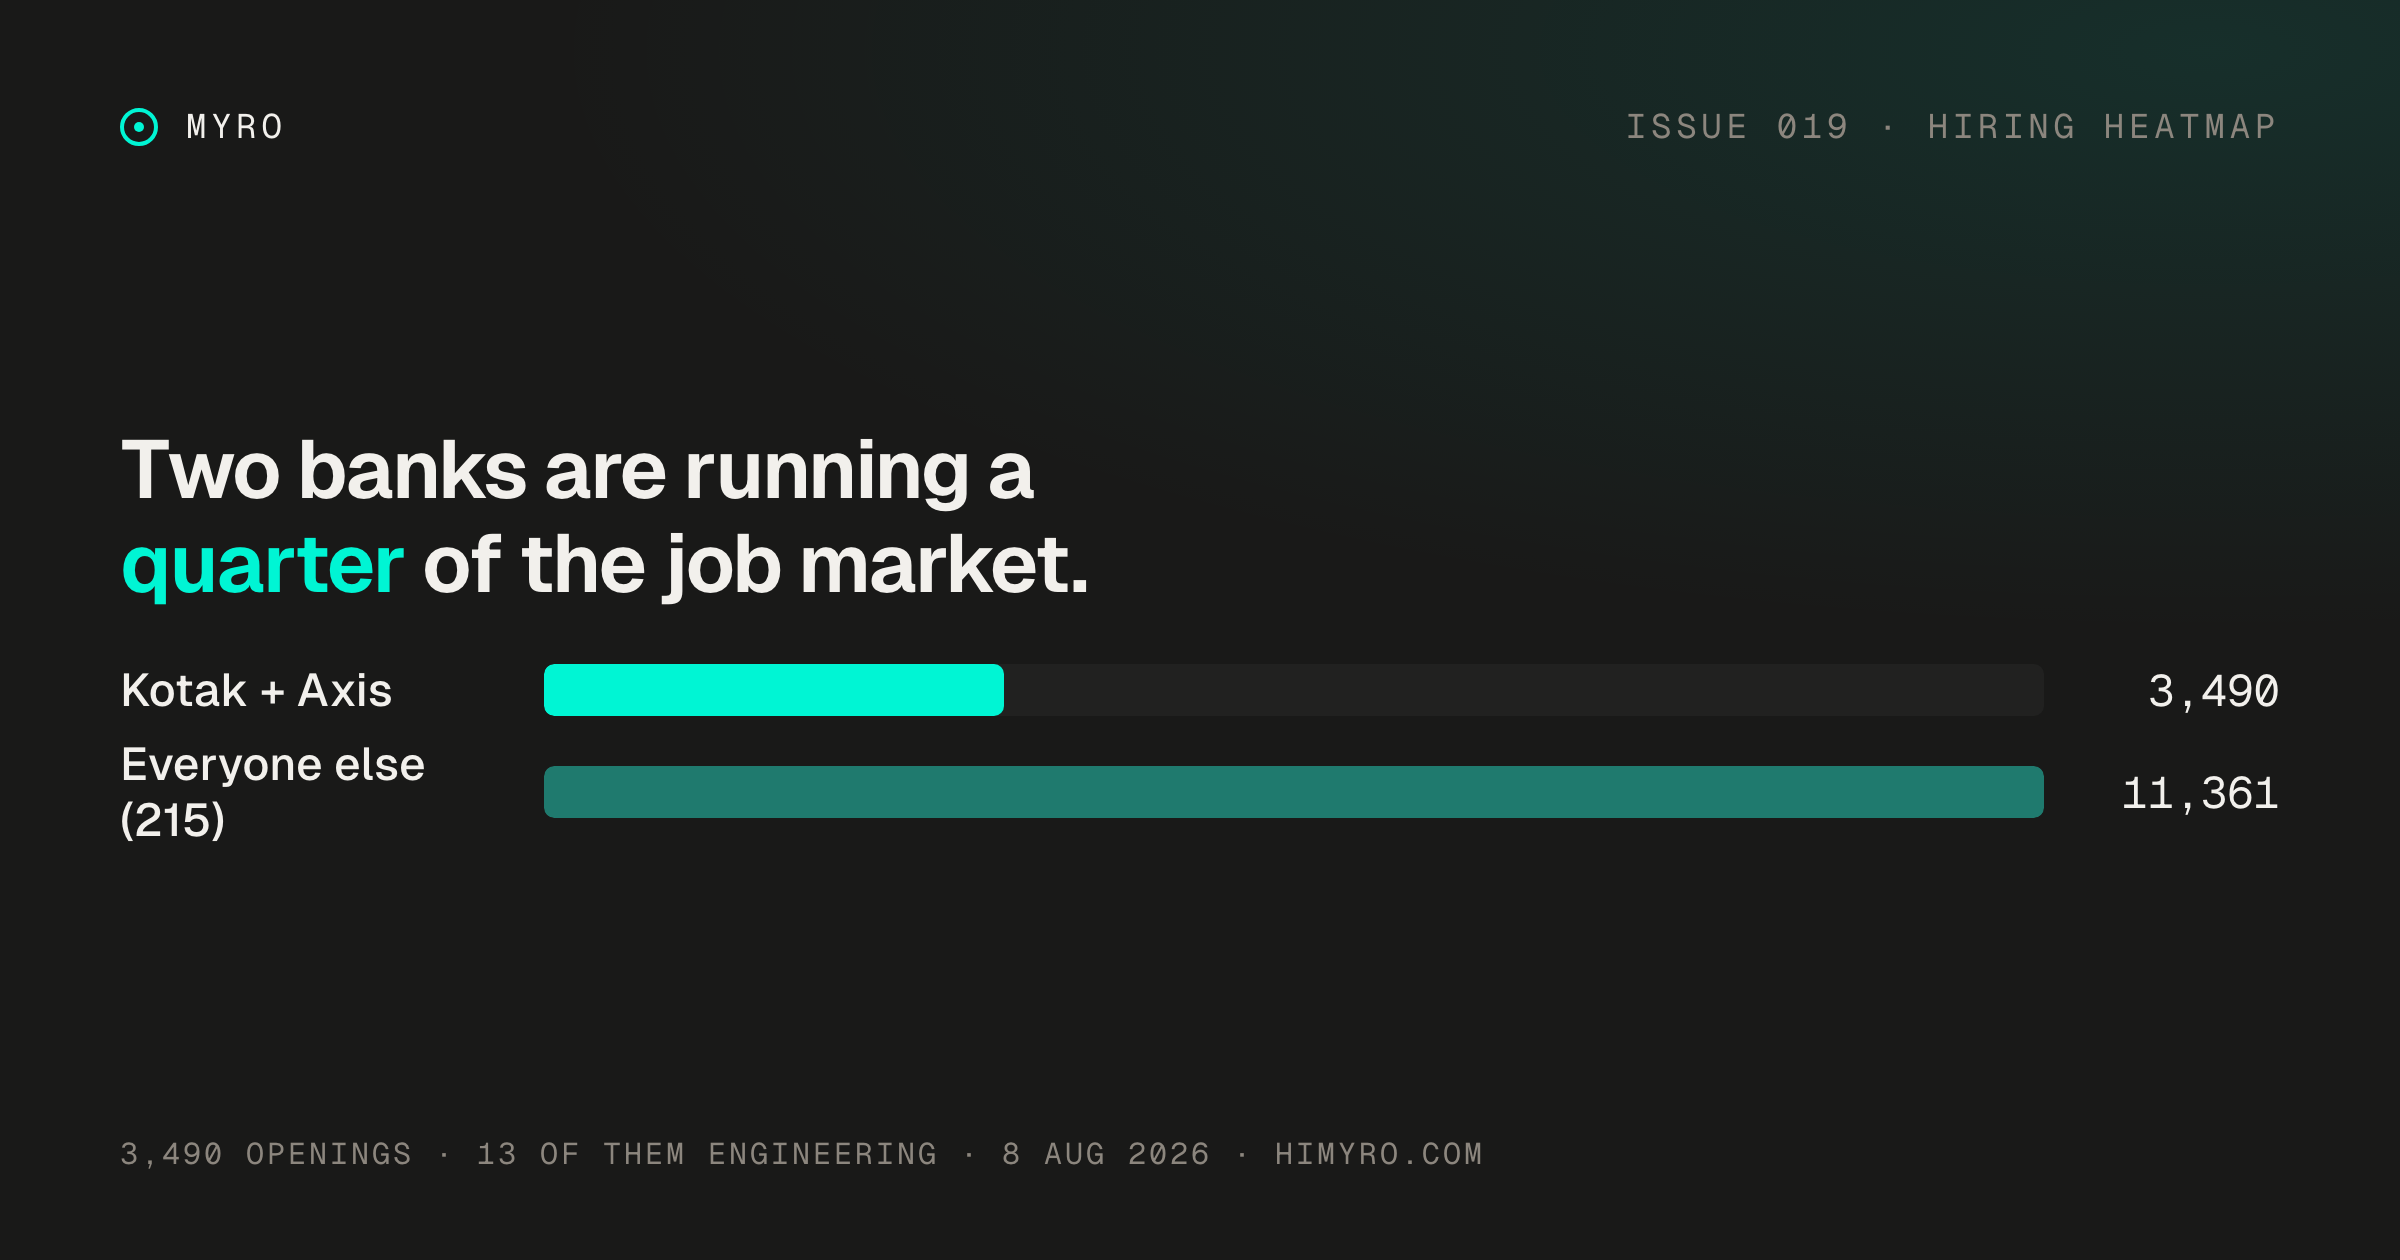
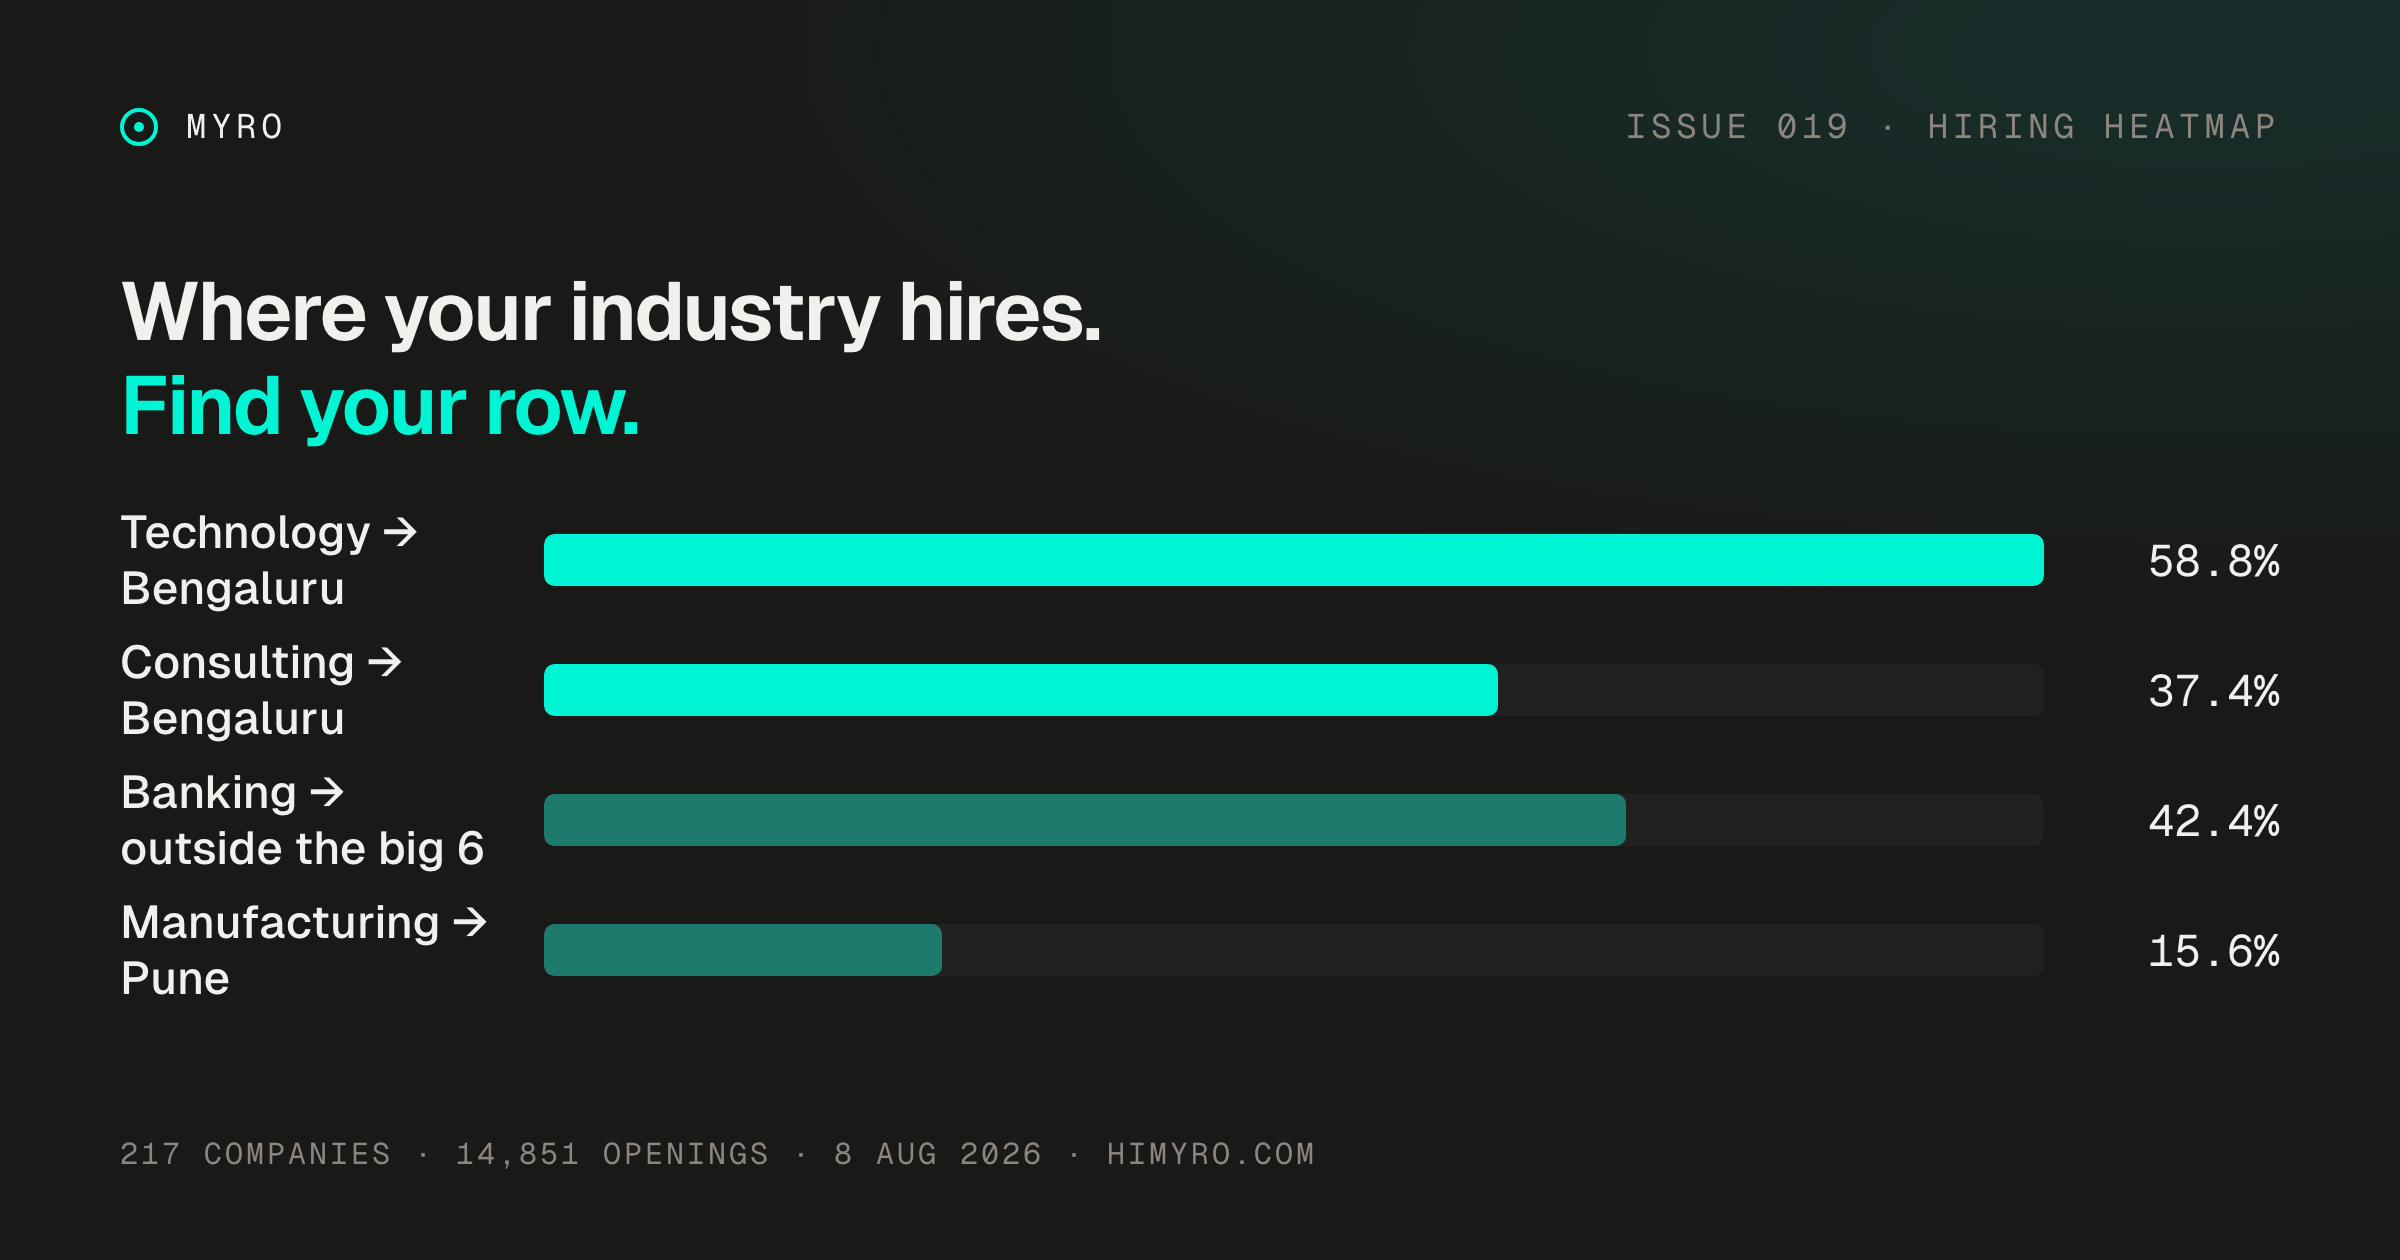
content(newsletter): replace issue 19 with the industry-by-city map
Drops the bank-concentration issue and rebuilds 19 around the question
people actually face. Almost nobody switches industry, so the useful cut is
not what is hiring but where your own industry hires.

The matrix is the piece: each row is one industry's openings split across
metros. Technology is 58.8% Bengaluru and 20.0% Hyderabad, so four in five
tech jobs sit in two cities and Mumbai holds 49. BFSI inverts it — Mumbai is
its largest metro at 16.5% and 42.4% sits outside the six big metros, 2,107
jobs against technology's entire national 1,701.

"Finance means Mumbai" did not survive the check and the issue says so.
There is no Mumbai-heavy finance sub-sector to lean on: industry inside BFSI
is only BFSI (4,858) and Fintech (115), and Fintech is 51.3% Bengaluru.

industry_group verified as a per-company attribute (zero companies carry two
values), so no model output is behind the rows. Metros rolled up: NCR
combines Gurugram/Noida/Delhi, Thane counts with Mumbai.

Adds a matrix slide type to the carousel generator.

diff --git a/scripts/build-newsletter-carousel.py b/scripts/build-newsletter-carousel.py
@@ -99,6 +99,14 @@ td.hi { color:var(--mint); } td.lo { color:var(--muted); }
 .card .d { font-size:33px; line-height:1.38; color:var(--fg); font-weight:400; }
 .cta { display:inline-block; background:var(--mint); color:#04241D; font-size:40px;
   font-weight:620; padding:30px 52px; border-radius:999px; letter-spacing:-.01em; }
+.mtx td, .mtx th { padding:17px 8px; font-size:27px; border-bottom:1px solid var(--border); }
+.mtx th.mx, .mtx td.mx { text-align:center; font-family:'GeistMono',monospace;
+  font-variant-numeric:tabular-nums; }
+.mtx th.mx { font-size:20px; letter-spacing:.06em; color:var(--muted); text-transform:uppercase; }
+.mtx td.mxl, .mtx th.mxl { text-align:left; font-size:28px; font-weight:520; padding-right:16px; }
+.mtx td.mx { color:var(--muted); }
+.mtx td.mx.warm { color:var(--fg); background:hsl(172 100%% 48%% / .10); }
+.mtx td.mx.hot { color:#04241D; background:var(--mint); font-weight:660; }
 .prose { font-size:46px; line-height:1.32; font-weight:440; letter-spacing:-.014em;
   color:var(--fg); }
 .prose b, .prose strong { font-weight:660; color:var(--mint); }
@@ -151,6 +159,17 @@ def slide_body(s):
     if k == "prose":
         lead = (f'<div class="lead">{s["lead"]}</div>' if s.get("lead") else "")
         return (f'{kicker}{lead}<div class="prose">{s["text"]}</div>')
+    if k == "matrix":
+        cols = "".join(f'<th class="mx">{html.escape(c)}</th>' for c in s["cols"])
+        rows = ""
+        for label, cells in s["rows"]:
+            tds = ""
+            for v, hot in cells:
+                cls = "mx hot" if hot == 2 else ("mx warm" if hot == 1 else "mx")
+                tds += f'<td class="{cls}">{html.escape(v)}</td>'
+            rows += f'<tr><td class="mxl">{html.escape(label)}</td>{tds}</tr>'
+        note = f'<div class="note">{s["note"]}</div>' if s.get("note") else ""
+        return (f'{kicker}<table class="mtx"><tr><th class="mxl"></th>{cols}</tr>{rows}</table>{note}')
     if k == "cta":
         return (f'{kicker}<h2 style="max-width:18ch">{s["h1"]}</h2>'
                 f'<div class="sub" style="margin-bottom:56px">{s["sub"]}</div>'
